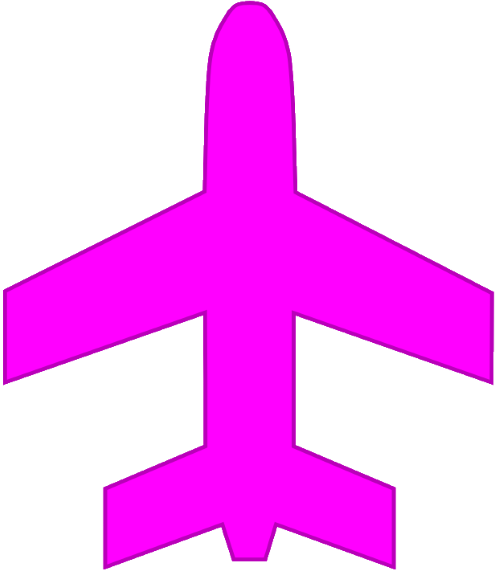
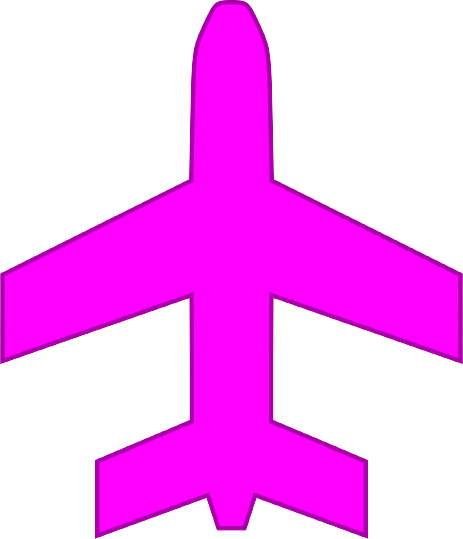
chart data scrolling, some scaling fixes etc.

diff --git a/src/wtsdk/src/cj4/mfd/CJ4_MFD_ChartView.ts b/src/wtsdk/src/cj4/mfd/CJ4_MFD_ChartView.ts
@@ -27,7 +27,7 @@ export class CJ4_MFD_ChartView extends HTMLElement {
     this._canvas = this.querySelector("#chartcanvas");
     this._srcImage.src = "#";
     this._srcImage.onload = this.onSrcImageLoaded.bind(this);
-    this._planeImage.src = "coui://html_UI/Pages/VCockpit/Instruments/Airliners/CJ4/WTLibs/Images/icon_plane.png?cb=334";
+    this._planeImage.src = "coui://html_UI/Pages/VCockpit/Instruments/Airliners/CJ4/WTLibs/Images/icon_plane.png?cb=323334";
   }
 
   onSrcImageLoaded(): void {
@@ -149,15 +149,20 @@ export class CJ4_MFD_ChartView extends HTMLElement {
         let planeX = (long - this._chart.planview.bbox_geo[0]) * pxPerLong;
         let planeY = Math.abs(lat - this._chart.planview.bbox_geo[3]) * pxPerLat;
 
-        planeX += (this._chart.planview.bbox_local[0]) +5;
-        planeY += (this._chart.planview.bbox_local[3]) -5;
+        // no idea why we need to offset more
+        planeX += (this._chart.planview.bbox_local[0]) +14;
+        planeY += (this._chart.planview.bbox_local[3]) -7;
 
-        ctx.save();
+        const transX = Math.abs(planeX) * scaleW;
+        const transY = Math.abs(planeY) * scaleH;
         const simTrack = SimVar.GetSimVarValue("GPS GROUND MAGNETIC TRACK", "degree") - 14;
-        ctx.translate(Math.abs(planeX) * scaleW, Math.abs(planeY) * scaleH);
-        ctx.rotate(Math.round(simTrack) * (Math.PI / 180));
-        ctx.drawImage(this._planeImage, -20, -23, 40, 46);
-        ctx.restore();
+        const rot = Math.round(simTrack) * (Math.PI / 180);
+        ctx.translate(transX, transY);
+        ctx.rotate(rot);
+        const planeScale = this._zoom === 1 ? 1 : 1.5;
+        ctx.drawImage(this._planeImage, -20/planeScale, -23.5/planeScale, 40/planeScale, 47/planeScale);
+        ctx.translate(-transX, -transY);
+        ctx.rotate(-rot);        
         // }
       }
     }

diff --git a/src/wtsdk/src/cj4/mfd/CJ4_MFD_ChartsIndex.ts b/src/wtsdk/src/cj4/mfd/CJ4_MFD_ChartsIndex.ts
@@ -138,6 +138,30 @@ export class CJ4_MFD_ChartsIndex extends HTMLElement {
     }
   }
 
+  public selectPrevChart() {
+    if(this._selectIndex > 0){
+      const chartsIndex = this.getFlatChartIndex();
+      for (let i = this._selectIndex-1; i >= 0; i--) {
+        if (chartsIndex[i] !== undefined) {
+          this._selectIndex = i;
+          this.selectChart();
+          return;
+        }
+      }
+    }
+  }
+
+  public selectNextChart() {
+    const chartsIndex = this.getFlatChartIndex();
+    for (let i = this._selectIndex+1; i < chartsIndex.length; i++) {
+      if (chartsIndex[i] !== undefined) {
+        this._selectIndex = i;
+        this.selectChart();
+        return;
+      }
+    }
+  }
+
   private renderselect() {
     const rows = this._tableContainer.querySelectorAll("tr");
     rows.forEach(r => {
@@ -195,6 +219,7 @@ export class CJ4_MFD_ChartsIndex extends HTMLElement {
     Object.entries(data).forEach((v: [string, NG_Chart]) => {
       const row = tbody.insertRow();
       const cell1 = row.insertCell();
+      cell1.style.width = "110px";
       cell1.textContent = v[0];
       const cell2 = row.insertCell();
       const chart = v[1];
@@ -203,8 +228,8 @@ export class CJ4_MFD_ChartsIndex extends HTMLElement {
     container.appendChild(table);
 
     const hrdivider = document.createElement("hr");
-    hrdivider.style.width = "95%";
-    hrdivider.style.textAlign = "center";
+    hrdivider.style.width = "99%";
+    hrdivider.style.float = "right";
     container.appendChild(hrdivider);
 
     return container;

diff --git a/src/workingtitle-vcockpits-instruments-cj4/html_ui/Pages/VCockpit/Instruments/Airliners/CJ4/MFD/CJ4_MFD.js b/src/workingtitle-vcockpits-instruments-cj4/html_ui/Pages/VCockpit/Instruments/Airliners/CJ4/MFD/CJ4_MFD.js
@@ -316,6 +316,16 @@ class CJ4_MFD extends BaseAirliners {
             return;
         }
         switch (_event) {
+            case "Lwr_DATA_DEC":
+                if (this._chartView.isVisible && !this._chartIndex.isVisible) {
+                    this._chartIndex.selectPrevChart();
+                }
+                break;
+            case "Lwr_DATA_INC":
+                if (this._chartView.isVisible && !this._chartIndex.isVisible) {
+                    this._chartIndex.selectNextChart();
+                }
+                break;
             case "Lwr_Push_Chart_1":
                 if (this._chartView.style.visibility === "visible") {
                     this._chartView.hide();

diff --git a/src/workingtitle-vcockpits-instruments-cj4/html_ui/Pages/VCockpit/Instruments/Airliners/CJ4/MFD/CJ4_MFD.html b/src/workingtitle-vcockpits-instruments-cj4/html_ui/Pages/VCockpit/Instruments/Airliners/CJ4/MFD/CJ4_MFD.html
@@ -264,7 +264,7 @@
                     <div class="ChartHeader">CHART MAIN INDEX</div>
                     <div class="ChartBody"></div>
                     <h4 style="text-align:right;color:#FF00FF">FMS1</h4>
-                    <hr style="width:95%;text-align:center;">
+                    <hr style="width:99%;float:right;">
                     <div id="ChartsTable"></div>
                 </cj4-mfd-chartsindex>
 

diff --git a/src/workingtitle-vcockpits-instruments-cj4/html_ui/Pages/VCockpit/Instruments/Airliners/CJ4/MFD/CJ4_MFD.css b/src/workingtitle-vcockpits-instruments-cj4/html_ui/Pages/VCockpit/Instruments/Airliners/CJ4/MFD/CJ4_MFD.css
@@ -827,6 +827,7 @@ cj4-mfd-element #Mainframe #Electricity #MainDisplay #ChartOverlay td {
   display: table-cell;
   vertical-align: middle;
   padding-left: 18px;
+  padding-top:2px;
 }
 
 cj4-mfd-element #Mainframe #Electricity #MainDisplay #ChartOverlay tr.selected {
